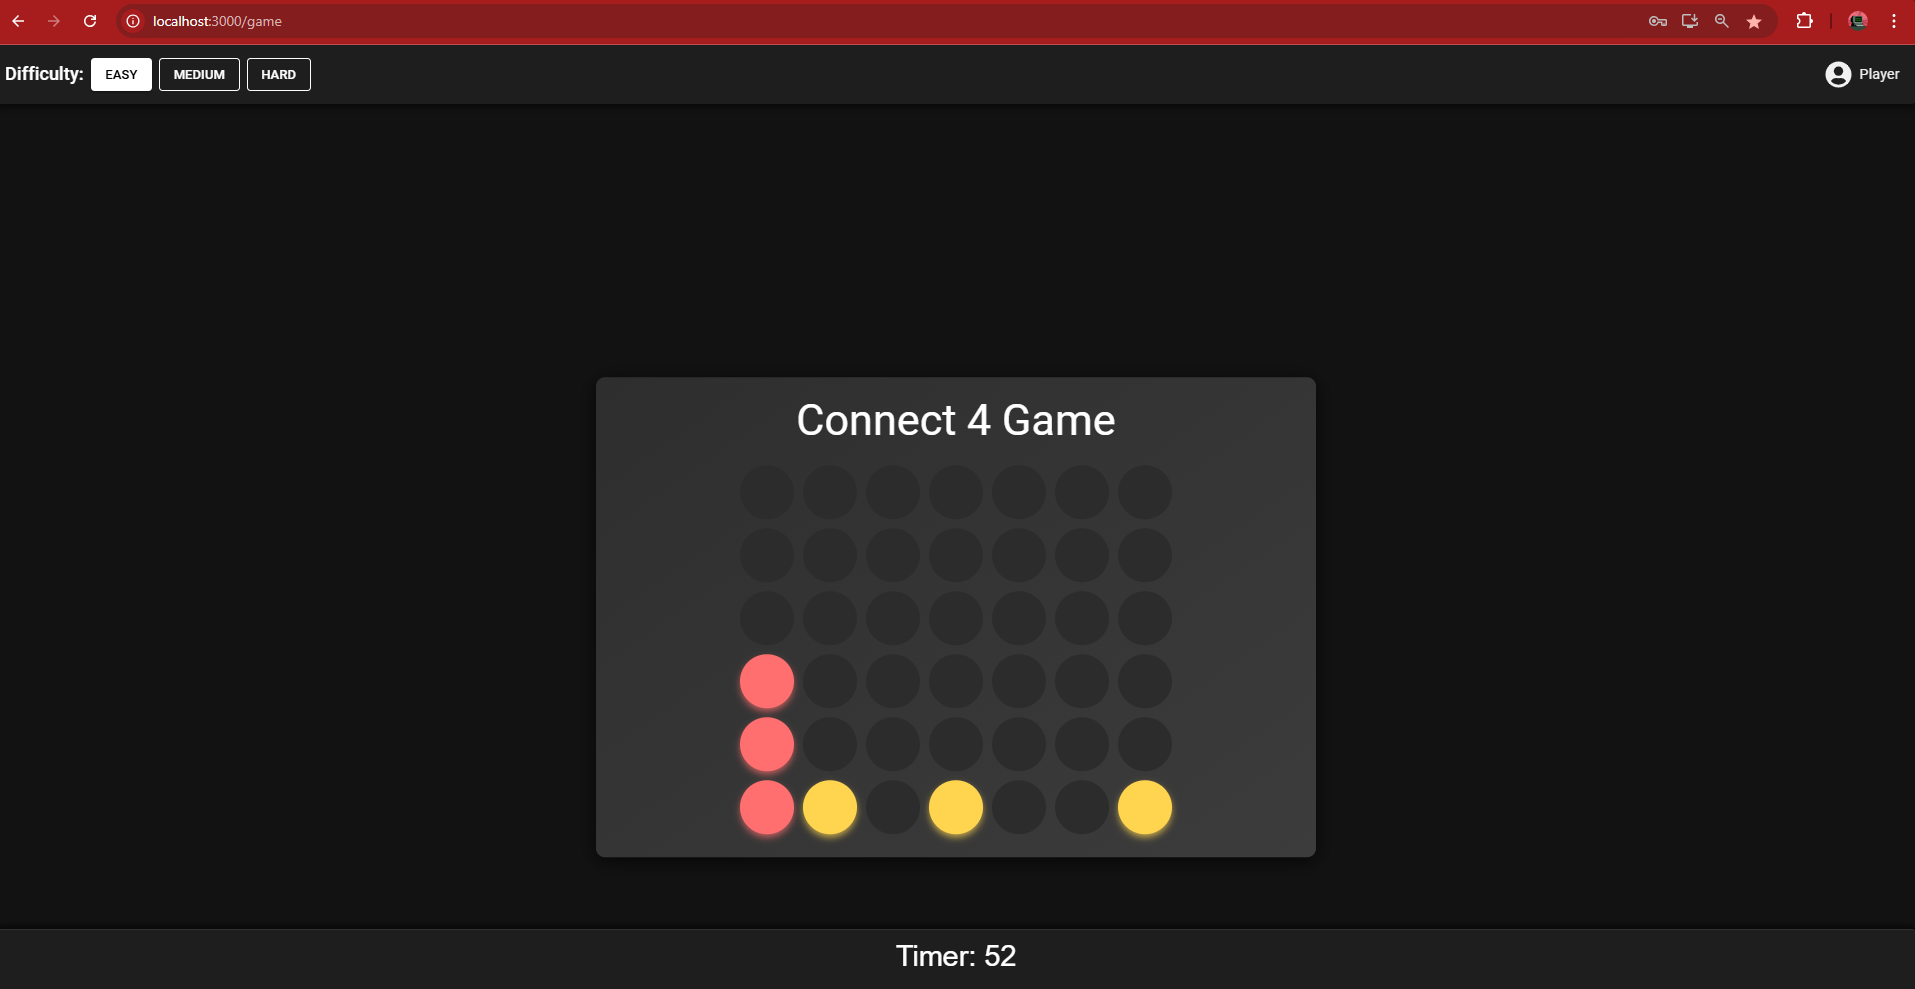
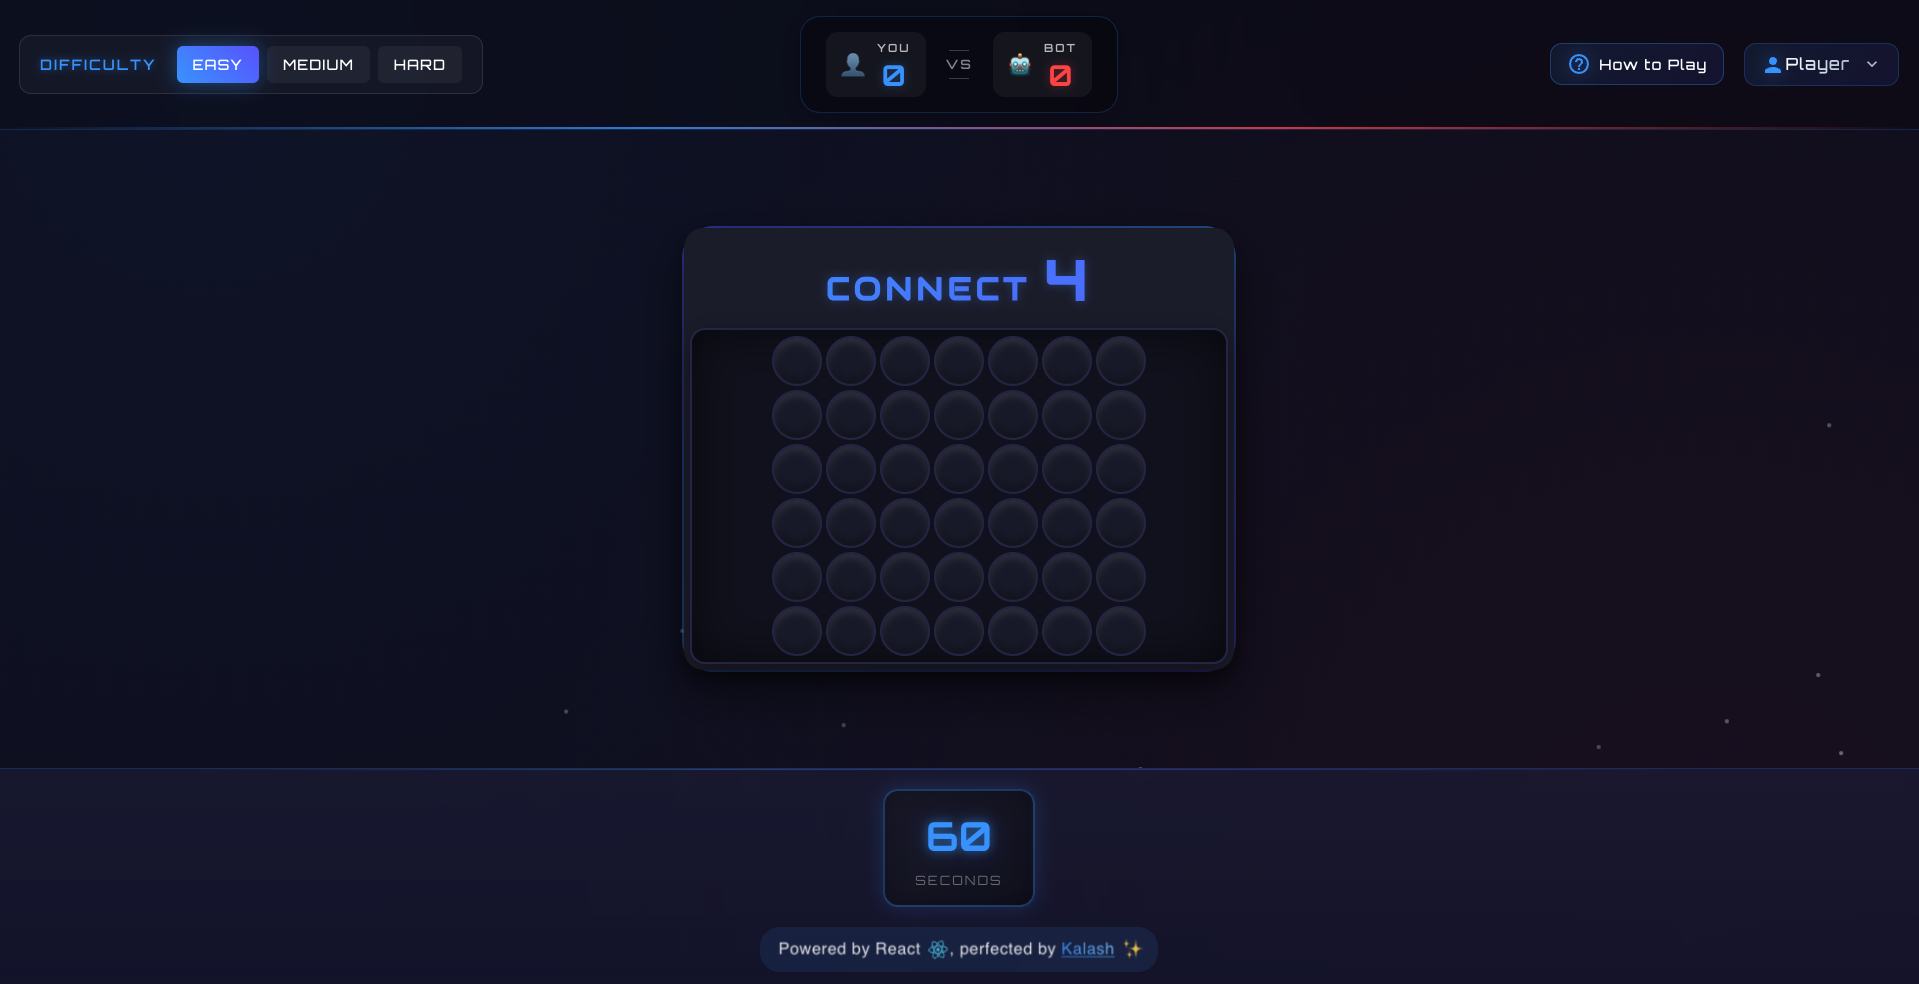
Project section updated

diff --git a/src/portfolio.js b/src/portfolio.js
@@ -387,9 +387,13 @@ const bigProjects = {
     {
       image: require("./assets/images/connect4game.png"),
       projectName: "Connect-4 Game",
-      techStack: ["React", "Bootstrap", "Node", "Express.js", "MongoDB", ""],
-      projectDesc: "Designed and implemented the Connect 4 game project using the MERN stack (MongoDB, Express, React, Node.js), focusing on secure authentication, efficient data storage, and a user-friendly, responsive interface.",
+      techStack: ["React", "Redux", "Material UI", "Firebase", "Node.js", "Express.js", "MongoDB", "AWS Lambda"],
+      projectDesc: "Built a modern Connect 4 game featuring real-time multiplayer and smart bot gameplay, implemented with MERN stack, Firebase for real-time updates, and Material UI for a responsive cyber-themed interface.",
       footerLink: [
+        {
+          name: "Live Website",
+          url: "https://connect-4-game-by-kalash.vercel.app/",
+        },
         {
           name: "Github",
           url: "https://github.com/kalash387/Connect-4-Game-FE-and-BE"
